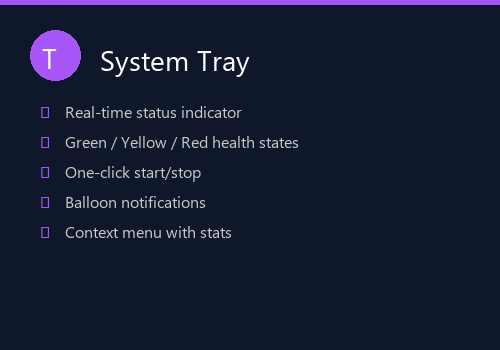
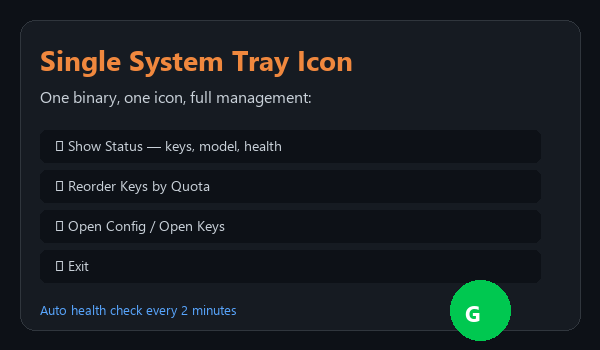
Update README with professional images and complete feature docs

diff --git a/README.md b/README.md
@@ -1,233 +1,116 @@
-<div align="center">
+# OpenCode Go Proxy
 
 ![Hero Banner](images/hero-banner.png)
 
-# OpenCode Go Proxy
-
-**Smart multi-key rotation proxy for the OpenCode Go API**
-
-[![License: MIT](https://img.shields.io/badge/License-MIT-yellow.svg)](https://opensource.org/licenses/MIT)
-[![Windows](https://img.shields.io/badge/Platform-Windows-blue.svg)](https://www.microsoft.com/windows)
-[![.NET](https://img.shields.io/badge/.NET-Framework%204.0-purple.svg)](https://dotnet.microsoft.com/)
-[![Models](https://img.shields.io/badge/Models-30+-green.svg)](#)
-[![Keys](https://img.shields.io/badge/Multi-Key-Rotation-orange.svg)](#)
-
-[Download Latest Release](https://github.com/Michaelunkai/OpencodeGoProxy/releases) · [Report Bug](https://github.com/Michaelunkai/OpencodeGoProxy/issues) · [Request Feature](https://github.com/Michaelunkai/OpencodeGoProxy/issues)
-
-</div>
-
----
-
-## What is OpenCode Go Proxy?
-
-OpenCode Go Proxy is a **smart, self-contained Windows proxy** that sits between your AI coding tools (Codex, CLI, etc.) and the OpenCode Go API. It automatically rotates between multiple API keys to maximize your usage across rolling, weekly, and monthly limits — all while providing real-time status via a system tray icon.
-
-<div align="center">
-
-![Architecture](images/architecture.png)
-
-</div>
-
----
+Smart API key rotation proxy for OpenCode Go/Zen models with weighted scoring, immediate Zen fallback, and a single system tray icon for full management.
 
 ## Features
 
-<div align="center">
+![Key Rotation](images/feature-rotation.png)
 
-| ![Key Rotation](images/feature-keys.png) | ![Policy Failover](images/feature-failover.png) | ![System Tray](images/feature-tray.png) |
-|:---:|:---:|:---:|
-| **Smart Key Rotation** | **Policy Failover** | **System Tray** |
-| Weighted scoring across 3 time windows | Automatic detection & retry | Real-time health indicator |
+### Smart Key Rotation
+Weighted scoring prioritizes long-lived limits to maximize usage across all keys:
+- **Monthly limits (50%)** — hardest to recover, highest priority
+- **Weekly limits (35%)** — second priority
+- **Rolling 5-hour limits (15%)** — resets fastest, lowest priority
 
-</div>
+The proxy always picks the key with the most remaining headroom across every window.
 
-### Key Rotation
-- **Real-time usage polling** every 20 seconds per key
-- **Weighted scoring algorithm**: Rolling (60%), Weekly (25%), Monthly (15%)
-- **Auto-reload** new keys from `api.txt` — no restart needed
-- **Per-key cooldown** on rate limits and errors
-- **Model-specific policy blocks** remembered per key
+![Zen Fallback](images/feature-fallback.png)
 
-### Policy Failover
-- **Training-data rejection** detection and automatic retry
-- **Global regions requirement** handling
-- **Zen fallback endpoint** when all Go keys are exhausted
-- **Model remapping** for free-tier variants
-- **Zero-downtime** key switching
+### Immediate Zen Fallback
+When the Go upstream fails, the proxy retries on Zen instantly — no wasted retries on other keys:
+- **Insufficient funds (402)** → Zen retry
+- **Global regions policy (400)** → Zen retry
+- **Training consent required (400)** → Zen retry
 
-### System Tray
-- **Green / Yellow / Red** health states at a glance
-- **Balloon notifications** for key exhaustion
-- **Context menu** with live stats
-- **One-click start/stop**
+![Tray Icon](images/feature-tray.png)
 
----
+### Single System Tray Icon
+One binary, one icon, full management:
+- **Show Status** — keys, model, health at a glance
+- **Reorder Keys by Quota** — probe usage and sort best-first
+- **Open Config / Open Keys** — quick access to settings
+- **Auto health check** — monitors proxy every 2 minutes
+- **Key file watcher** — detects changes automatically
+
+## Architecture
+
+![Architecture](images/architecture.png)
 
 ## Quick Start
 
-<div align="center">
+### 1. Add your API keys
 
-![Install Guide](images/install-guide.png)
-
-</div>
-
-### Option 1: Installer (Recommended)
-
-1. Download `OpencodeGoProxy-Setup.exe` from the [Releases](https://github.com/Michaelunkai/OpencodeGoProxy/releases) page
-2. Run the installer — it sets up everything automatically
-3. Add your API keys to the config file
-4. Launch from the Start Menu or system tray
-
-### Option 2: Portable
-
-1. Download `OpencodeGoProxy-Portable.zip` from the [Releases](https://github.com/Michaelunkai/OpencodeGoProxy/releases) page
-2. Extract to any folder
-3. Run `OpencodeGoProxy.exe`
-4. Add your API keys to `api.txt`
-
-### Adding API Keys
-
-Add one key per line to your key file:
+Create `api.txt` with one key per line:
 
 ```
 oc_sk_your_first_key_here
 oc_sk_your_second_key_here
-oc_sk_your_third_key_here
 ```
 
-> **Note:** New keys are detected automatically — no restart required!
+### 2. Run the proxy
 
----
+```bash
+OpencodeGoProxy.exe -Mode Serve -ConfigPath config.json
+```
+
+Or use the included `start-proxy.cmd` supervisor for auto-restart.
+
+### 3. Configure your client
+
+Point your OpenCode client to `http://127.0.0.1:4001/v1` with the local proxy bearer key.
 
 ## Configuration
 
-The proxy is configured via `config.json`:
+The proxy reads `config.json` on startup:
 
 ```json
 {
   "listen_prefix": "http://127.0.0.1:4001/",
   "upstream_base_url": "https://opencode.ai/zen/go/v1",
   "zen_upstream_base_url": "https://opencode.ai/zen/v1",
-  "credential_source": "F:\\backup\\windowsapps\\credentials\\opencodego\\api.txt",
-  "zen_credential_source": "F:\\backup\\windowsapps\\credentials\\opencodego\\api.txt",
-  "local_api_key": "7rPWb0YtL2miBuu2dep2Qv0kc7LNj-QpRhDIOOxLgqk",
+  "credential_source": "path/to/api.txt",
+  "local_api_key": "your-local-bearer-key",
   "public_model": "opencode-go",
-  "upstream_model": "kimi-k3",
-  "retry_server_error_from": 500,
-  "retry_http_statuses": [401, 402, 403, 408, 425, 429]
+  "upstream_model": "kimi-k3"
 }
 ```
 
-| Setting | Default | Description |
-|---------|---------|-------------|
-| `listen_prefix` | `http://127.0.0.1:4001/` | Proxy listen address and port |
-| `upstream_base_url` | `https://opencode.ai/zen/go/v1` | Primary Go subscription upstream |
-| `zen_upstream_base_url` | `https://opencode.ai/zen/v1` | Zen pay-as-you-go fallback |
-| `credential_source` | *(path to api.txt)* | File containing API keys (one per line) |
-| `local_api_key` | *(random)* | Bearer key clients must use to connect |
-| `retry_http_statuses` | 401,402,403,408,425,429 | HTTP status codes that trigger key failover |
+## Supported Models
 
----
+30+ models available through the Go and Zen upstreams:
 
-## How It Works
+| Model | Wire | Notes |
+|-------|------|-------|
+| deepseek-v4-flash | chat | Requires Global regions |
+| deepseek-v4-pro | chat | |
+| mimo-v2.5 | chat | |
+| mimo-v2.5-pro | chat | |
+| kimi-k3 | chat | Default upstream model |
+| gpt-5.6-luna | responses | |
+| gpt-6-luna | responses | |
+| grok-4.6 | responses | |
+| muse-spark-1.3-contributor | responses | Requires training consent |
+| minimax-m3 | messages | Anthropic wire |
+| qwen3.8-max | messages | Anthropic wire |
 
-```
-┌─────────────┐     ┌──────────────────┐     ┌─────────────────┐
-│  Codex /    │────▶│  OpenCode Go     │────▶│  Key Pool       │
-│  CLI        │     │  Proxy           │     │  (3+ keys)      │
-│  Client     │     │  (Port 4001)     │     │                 │
-└─────────────┘     └──────────────────┘     └────────┬────────┘
-                                                       │
-                              ┌────────────────────────┼────────────────────────┐
-                              │                        │                        │
-                              ▼                        ▼                        ▼
-                        ┌──────────┐            ┌──────────┐            ┌──────────┐
-                        │  Key 1   │            │  Key 2   │            │  Key 3   │
-                        │  score=45│            │  score=0 │            │  score=99│
-                        └────┬─────┘            └────┬─────┘            └────┬─────┘
-                             │                       │                       │
-                             ▼                       ▼                       ▼
-                        ┌──────────────────────────────────────────────────────────┐
-                        │              OpenCode Go API (opencode.ai)               │
-                        └──────────────────────────────────────────────────────────┘
-```
+## How Key Rotation Works
 
-### Scoring Algorithm
-
-Each key is scored every 20 seconds based on its usage across three time windows:
-
-```
-score = 100 - max(rolling%, weekly%, monthly%)
-```
-
-The key with the **highest score** (most headroom) is always tried first. When a key hits 100% on any window, it's automatically skipped.
-
----
+1. **Background polling** — Every 20 seconds, the proxy queries `/usage` for each key
+2. **Weighted scoring** — Monthly (50%) + Weekly (35%) + Rolling (15%)
+3. **Automatic selection** — Highest-scored key tried first
+4. **Instant failover** — On error, next key tried immediately
+5. **Auto-reload** — New keys added to `api.txt` are picked up on the next request
 
 ## Building from Source
 
-### Prerequisites
-- Windows 7 or later
-- .NET Framework 4.0 or later
-- PowerShell 5.0 or later
-
-### Build Steps
+Requires .NET Framework 4.0+:
 
 ```powershell
-# Clone the repository
-git clone https://github.com/Michaelunkai/OpencodeGoProxy.git
-cd OpencodeGoProxy
-
-# Build the proxy
-.\build.ps1
-
-# Run the proxy
-.\start_proxy.ps1
+.\build.ps1 -OutputPath OpencodeGoProxy.exe
 ```
-
----
-
-## Supported Models
-
-The proxy supports **30+ models** including:
-
-| Category | Models |
-|----------|--------|
-| **DeepSeek** | deepseek-v4-flash, deepseek-v4-pro, deepseek-v4.1-flash |
-| **MIMO** | mimo-v2.5, mimo-v2.5-pro, mimo-v2.6-flash, mimo-v2.6-pro |
-| **Kimi** | kimi-k3, kimi-k2.7-code, kimi-k2.6 |
-| **Qwen** | qwen3.8-max, qwen3.8-flash, qwen3.7-plus, qwen3.6-plus |
-| **GLM** | glm-5.3, glm-5.2 |
-| **Minimax** | minimax-m3, minimax-m2.7 |
-| **Muse Spark** | muse-spark-1.3-contributor, muse-spark-1.2-contributor |
-| **GPT** | gpt-5.6-luna, gpt-6-luna |
-| **Grok** | grok-4.6, grok-4.7 |
-| **Free Tier** | big-pickle, jev-1.13-free, muse-spark-free |
-
----
-
-## Troubleshooting
-
-| Issue | Solution |
-|-------|----------|
-| Port 4001 already in use | Change `listen_prefix` in config.json |
-| All keys rate-limited | Add more keys to api.txt or wait for reset |
-| "Global regions" error | Enable Global regions in OpenCode workspace settings |
-| "Trains on request data" error | Enable privacy consent in OpenCode workspace settings |
-| Tray icon not showing | Restart the proxy or check Windows notification settings |
-
----
 
 ## License
 
-This project is licensed under the MIT License — see the [LICENSE](LICENSE) file for details.
-
----
-
-<div align="center">
-
-**[Download Latest Release](https://github.com/Michaelunkai/OpencodeGoProxy/releases)** · [GitHub Repository](https://github.com/Michaelunkai/OpencodeGoProxy)
-
-Made with care for the OpenCode community
-
-</div>
+MIT
